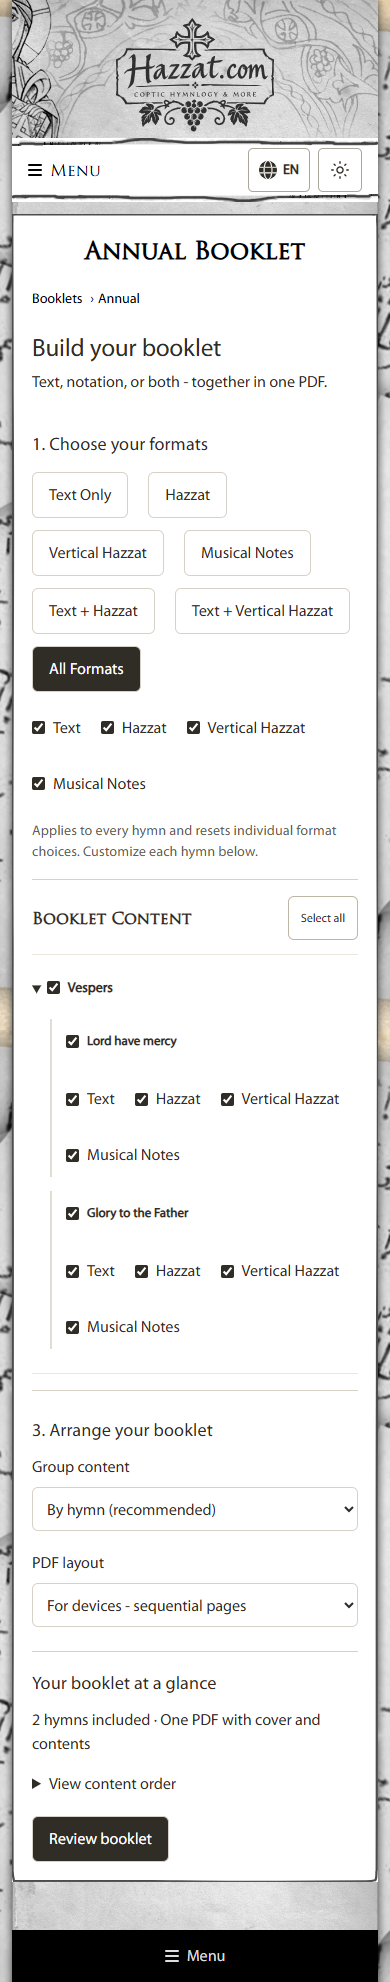
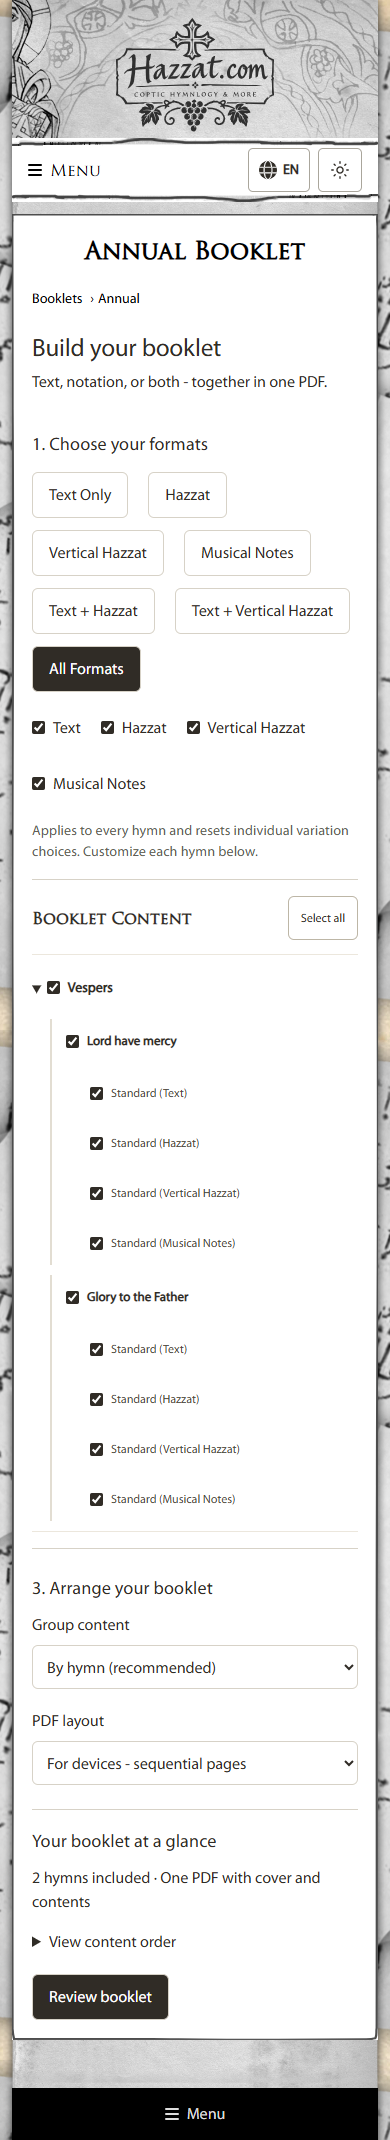
Simplify booklet hymn choices to named variation checkboxes

diff --git a/src/Components/BookletDetails.tsx b/src/Components/BookletDetails.tsx
@@ -165,7 +165,10 @@ function BookletDetails() {
     ];
     const applyFormats = (next: BookletFormatKind[]) => {
         setFormats(next);
-        setSelection(current => ({ ...current, formats: {} }));
+        setSelection(current => {
+            const nextSelection = createDefaultSelection(services);
+            return { ...current, formats: {}, variations: nextSelection.variations };
+        });
     };
 
     return (
@@ -210,7 +213,6 @@ function BookletDetails() {
                     selection={selection}
                     onSelectionChange={setSelection}
                     formats={formats}
-                    availableFormats={availableFormats}
                 />
                 <h3>{strings.bookletArrange}</h3>
                 <div className="bookletLayoutChoices">
@@ -271,7 +273,6 @@ interface BookletContentSelectorProps {
     selection: BookletSelectionState;
     onSelectionChange: React.Dispatch<React.SetStateAction<BookletSelectionState>>;
     formats: BookletFormatKind[];
-    availableFormats: BookletFormatKind[];
 }
 
 function BookletContentSelector(props: BookletContentSelectorProps) {
@@ -302,7 +303,7 @@ function BookletContentSelector(props: BookletContentSelectorProps) {
 
                         {[...(service.hymns || [])].sort((a, b) => a.order - b.order).map(hymn => {
                             const selectableVariations = getSelectableVariations(hymn).filter(variation =>
-                                (hymn.formats?.find(format => format.id === variation.formatId)?.variations?.length || 0) > 1);
+                                hasBookletVariationContent(variation, formatKindFromId(variation.formatId)));
 
                             return (
                                 <div key={hymnKey(service, hymn)} className="bookletHymnSelector">
@@ -315,29 +316,17 @@ function BookletContentSelector(props: BookletContentSelectorProps) {
                                         {hymn.displayName || hymn.name}
                                     </label>
 
-                                    <div className="bookletFormatChoices">
-                                        {props.availableFormats.map(kind => <label key={kind}>
-                                            <input type="checkbox" checked={(props.selection.formats?.[hymnKey(service, hymn)] ?? props.formats).includes(kind)}
-                                                onChange={event => {
-                                                    const checked = event.target.checked;
-                                                    props.onSelectionChange(current => {
-                                                        const currentFormats = current.formats?.[hymnKey(service, hymn)] ?? props.formats;
-                                                        return { ...current, formats: { ...current.formats, [hymnKey(service, hymn)]: bookletFormatKinds.filter(k => k === kind ? checked : currentFormats.includes(k)) } };
-                                                    });
-                                                }} />{getFormatName(kind)}
-                                        </label>)}
-                                    </div>
-
                                     {selectableVariations.length > 0 && (
                                         <div className="bookletVariationSelectorGroup">
-                                            {selectableVariations.filter(variation => (props.selection.formats?.[hymnKey(service, hymn)] ?? props.formats).includes(formatKindFromId(variation.formatId))).map(variation => (
+                                            {selectableVariations.map(variation => (
                                                 <label key={variationKey(service, hymn, variation)} className="bookletVariationSelector">
                                                     <input
                                                         type="checkbox"
-                                                        checked={isVariationSelected(props.selection, service, hymn, variation)}
-                                                        onChange={event => toggleVariationSelection(props.onSelectionChange, service, hymn, variation, event.target.checked)}
+                                                        checked={isVariationSelected(props.selection, service, hymn, variation) &&
+                                                            (props.selection.formats?.[hymnKey(service, hymn)] ?? props.formats).includes(formatKindFromId(variation.formatId))}
+                                                        onChange={event => toggleVariationSelection(props.onSelectionChange, service, hymn, variation, event.target.checked, props.formats)}
                                                     />
-                                                    {getVariationDisplayName(variation)} <small>({getFormatName(formatKindFromId(variation.formatId))})</small>
+                                                    <span>{getVariationDisplayName(variation)} ({getFormatName(formatKindFromId(variation.formatId))})</span>
                                                 </label>
                                             ))}
                                         </div>
@@ -384,6 +373,7 @@ function toggleServiceSelection(
         next.services[service.id] = checked;
         (service.hymns || []).forEach(hymn => {
             next.hymns[hymnKey(service, hymn)] = checked;
+            delete next.formats?.[hymnKey(service, hymn)];
             getSelectableVariations(hymn).forEach(variation => {
                 next.variations[variationKey(service, hymn, variation)] = checked;
             });
@@ -401,6 +391,7 @@ function toggleHymnSelection(
     setSelection(selection => {
         const next = cloneSelection(selection);
         next.hymns[hymnKey(service, hymn)] = checked;
+        delete next.formats?.[hymnKey(service, hymn)];
         getSelectableVariations(hymn).forEach(variation => {
             next.variations[variationKey(service, hymn, variation)] = checked;
         });
@@ -414,11 +405,26 @@ function toggleVariationSelection(
     service: IServiceInfo,
     hymn: IHymnInfo,
     variation: BookletVariation,
-    checked: boolean
+    checked: boolean,
+    defaultFormats: BookletFormatKind[]
 ) {
     setSelection(selection => {
         const next = cloneSelection(selection);
+        const key = hymnKey(service, hymn);
+        const kind = formatKindFromId(variation.formatId);
+        const hymnWasSelected = isHymnSelected(selection, service, hymn);
+        const requested = hymnWasSelected ? selection.formats?.[key] ?? defaultFormats : [];
+        if (checked && !hymnWasSelected) {
+            getSelectableVariations(hymn).forEach(candidate => { next.variations[variationKey(service, hymn, candidate)] = false; });
+        }
+        const sameFormat = getSelectableVariations(hymn).filter(candidate => candidate.formatId === variation.formatId &&
+            hasBookletVariationContent(candidate, kind));
+        if (checked && !requested.includes(kind)) {
+            sameFormat.forEach(candidate => { next.variations[variationKey(service, hymn, candidate)] = false; });
+        }
         next.variations[variationKey(service, hymn, variation)] = checked;
+        const includeFormat = checked || sameFormat.some(candidate => next.variations[variationKey(service, hymn, candidate)] !== false);
+        next.formats = { ...next.formats, [key]: bookletFormatKinds.filter(candidate => candidate === kind ? includeFormat : requested.includes(candidate)) };
 
         if (checked) {
             next.hymns[hymnKey(service, hymn)] = true;
@@ -510,8 +516,11 @@ function hasSelectedHymnContent(selection: BookletSelectionState, service: IServ
     }
 
     const selectableVariations = getSelectableVariations(hymn);
+    const requested = selection.formats?.[hymnKey(service, hymn)];
+    if (requested && requested.length === 0) return false;
     return selectableVariations.length === 0 ||
-        selectableVariations.some(variation => selection.variations[variationKey(service, hymn, variation)] !== false);
+        selectableVariations.some(variation => (!requested || requested.includes(formatKindFromId(variation.formatId))) &&
+            selection.variations[variationKey(service, hymn, variation)] !== false);
 }
 
 function getBookletFormats(hymn: IHymnInfo): IFormatInfo[] {

diff --git a/src/Components/BookletDetails.test.tsx b/src/Components/BookletDetails.test.tsx
@@ -83,13 +83,15 @@ describe("booklet builder", () => {
     it("supports per-hymn overrides, format grouping, and resets overrides when applying a preset", async () => {
         const { container } = await openBuilder();
         const hymn = container.querySelector('.bookletHymnSelector') as HTMLElement;
-        fireEvent.click(within(hymn).getByRole("checkbox", { name: "Hazzat", exact: true }));
+        expect(hymn.querySelector('.bookletFormatChoices')).not.toBeInTheDocument();
+        expect(within(hymn).getByRole("checkbox", { name: "Text words (Text)", exact: true })).toBeChecked();
+        fireEvent.click(within(hymn).getByRole("checkbox", { name: "Notation (Hazzat)", exact: true }));
         fireEvent.change(screen.getByLabelText("Group content"), { target: { value: "format" } });
         fireEvent.click(screen.getByRole("button", { name: "Review booklet" }));
         await screen.findByRole("link", { name: "Download PDF" });
         expect(generator).toHaveBeenLastCalledWith(expect.objectContaining({ formatKinds: ["text"], groupingKind: "format" }));
         fireEvent.click(screen.getByRole("button", { name: "Text + Hazzat" }));
-        expect(within(hymn).getByRole("checkbox", { name: "Hazzat", exact: true })).toBeChecked();
+        expect(within(hymn).getByRole("checkbox", { name: "Notation (Hazzat)", exact: true })).toBeChecked();
     });
 
     it("shows generation errors and permits retry", async () => {
@@ -101,6 +103,44 @@ describe("booklet builder", () => {
         expect(screen.getByRole("button", { name: "Review booklet" })).toBeEnabled();
         fireEvent.click(screen.getByRole("button", { name: "Review booklet" }));
         await screen.findByRole("link", { name: "Download PDF" });
+    });
+
+    it("lets a variation outside the preset add its format without selecting its sibling alternatives", async () => {
+        const alternatives = JSON.parse(JSON.stringify(service)) as IServiceInfo;
+        const notation = alternatives.hymns![0].formats![1];
+        notation.variations!.push({ ...notation.variations![0], id: "second", name: "Long tune", displayName: "Long tune" });
+        notation.variationCount = 2;
+        jest.spyOn(HymnsDataProvider.prototype, "getServiceList").mockResolvedValue([alternatives]);
+        const { container } = await openBuilder();
+        fireEvent.click(screen.getByRole("button", { name: "Text Only" }));
+        const hymn = container.querySelector('.bookletHymnSelector') as HTMLElement;
+        const first = within(hymn).getByRole("checkbox", { name: "Notation (Hazzat)", exact: true });
+        const second = within(hymn).getByRole("checkbox", { name: "Long tune (Hazzat)", exact: true });
+        expect(first).not.toBeChecked();
+        expect(second).not.toBeChecked();
+        fireEvent.click(second);
+        expect(first).not.toBeChecked();
+        expect(second).toBeChecked();
+        fireEvent.click(screen.getByRole("button", { name: "Review booklet" }));
+        await screen.findByRole("link", { name: "Download PDF" });
+        const options = generator.mock.calls[0][0];
+        expect(options.formatKinds).toEqual(["text", "regular"]);
+        expect(options.services[0].hymns![0].formats![1].variations!.map(v => v.id)).toEqual(["second"]);
+        fireEvent.click(second);
+        expect(screen.queryByText(/Some selected formats/)).not.toBeInTheDocument();
+        expect(screen.getByRole("button", { name: "Review booklet" })).toBeEnabled();
+        fireEvent.click(within(hymn).getByRole("checkbox", { name: "Text words (Text)" }));
+        expect(screen.getByRole("button", { name: "Review booklet" })).toBeDisabled();
+        fireEvent.click(within(hymn).getByRole("checkbox", { name: "First hymn", exact: true }));
+        expect(within(hymn).getByRole("checkbox", { name: "Text words (Text)" })).toBeChecked();
+        expect(first).not.toBeChecked();
+        expect(second).not.toBeChecked();
+        fireEvent.click(screen.getByRole("checkbox", { name: "Vespers", exact: true }));
+        fireEvent.click(screen.getByRole("button", { name: "All Formats" }));
+        fireEvent.click(second);
+        expect(second).toBeChecked();
+        expect(first).not.toBeChecked();
+        expect(within(hymn).getByRole("checkbox", { name: "Text words (Text)" })).not.toBeChecked();
     });
 
     it("locks selection during generation and releases an unfinished preview on unmount", async () => {

diff --git a/src/l8n.ts b/src/l8n.ts
@@ -28,7 +28,7 @@ export const strings = new LocalizedStrings({
         bookletTextHazzat: "Text + Hazzat",
         bookletTextVerticalHazzat: "Text + Vertical Hazzat",
         bookletAllFormats: "All Formats",
-        bookletFormatsHint: "Applies to every hymn and resets individual format choices. Customize each hymn below.",
+        bookletFormatsHint: "Applies to every hymn and resets individual variation choices. Customize each hymn below.",
         bookletArrange: "3. Arrange your booklet",
         bookletGroupContent: "Group content",
         bookletByHymn: "By hymn (recommended)",
@@ -320,7 +320,7 @@ export const strings = new LocalizedStrings({
         bookletTextHazzat: "النص والهزات",
         bookletTextVerticalHazzat: "النص والهزات العمودية",
         bookletAllFormats: "جميع التنسيقات",
-        bookletFormatsHint: "يُطبّق على جميع الألحان ويعيد تعيين اختيارات التنسيق الفردية. يمكنك تخصيص كل لحن أدناه.",
+        bookletFormatsHint: "يُطبّق على جميع الألحان ويعيد تعيين اختيارات التنويعات الفردية. يمكنك تخصيص كل لحن أدناه.",
         bookletArrange: "٣. رتّب كتيّبك",
         bookletGroupContent: "تجميع المحتوى",
         bookletByHymn: "حسب اللحن (موصى به)",
